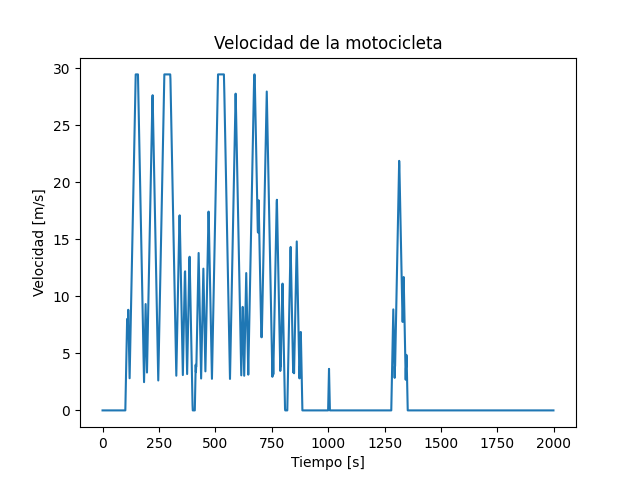
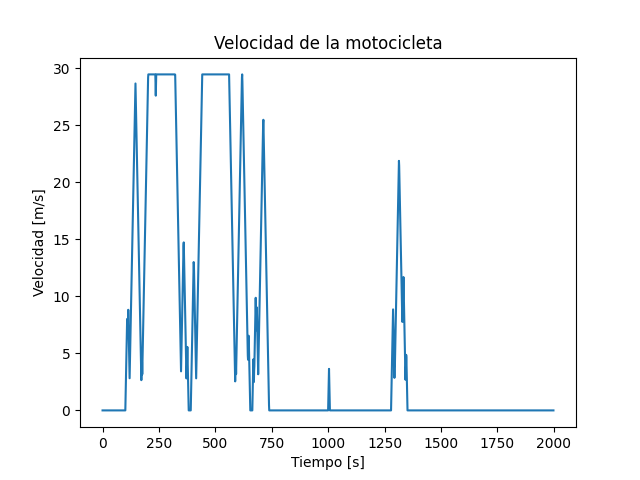
homePage description removed and operation gui disabled

diff --git a/energetica2030/home/templates/home/homePage.html b/energetica2030/home/templates/home/homePage.html
@@ -11,6 +11,5 @@ Energética2023
 {% block content %}
 <div class="container">
     <h3>Energética 2030</h3>
-    <p>Lorem ipsum dolor sit amet consectetur adipisicing elit. Expedita maiores impedit omnis dolorum consequuntur repudiandae sequi ratione esse labore nobis, commodi inventore nostrum vitae vel, non porro ab. Eligendi, sit. Lorem ipsum dolor sit amet consectetur adipisicing elit. Illo fugiat inventore, iure veritatis nisi deserunt ducimus culpa excepturi perferendis voluptates, sint, explicabo nihil vero labore ea odio error. Error, hic!</p>
 </div>
 {% endblock %}

diff --git a/energetica2030/operation/views.py b/energetica2030/operation/views.py
@@ -49,7 +49,7 @@ def operationPage(request):
         try:
             route = request.GET["selectRoute"]
             if(int(route) == 1):
-                tsim = 1500
+                tsim = 7000
             else:
                 tsim = 2000
             Demandas = np.zeros([tsim, 1], dtype = float)
@@ -835,8 +835,8 @@ def operationExecution(step, m_list, ch_ship, route):
     step = step
     m_list = m_list
     ch_ship = ch_ship
-    traci.start(["sumo-gui", "-c", UTILS_PATH+"/osm1.sumocfg", "--start"])
-    #traci.start(["sumo","-c", UTILS_PATH+"/osm1.sumocfg", "--quit-on-end"])
+    #traci.start(["sumo-gui", "-c", UTILS_PATH+"/osm1.sumocfg", "--start"])
+    traci.start(["sumo","-c", UTILS_PATH+"/osm1.sumocfg", "--quit-on-end"])
     parkingID = ["m1","m2"]
     parkingID_1 = ["372051587#0", "-111215443#2"]
     motoNumber = [10,5]
